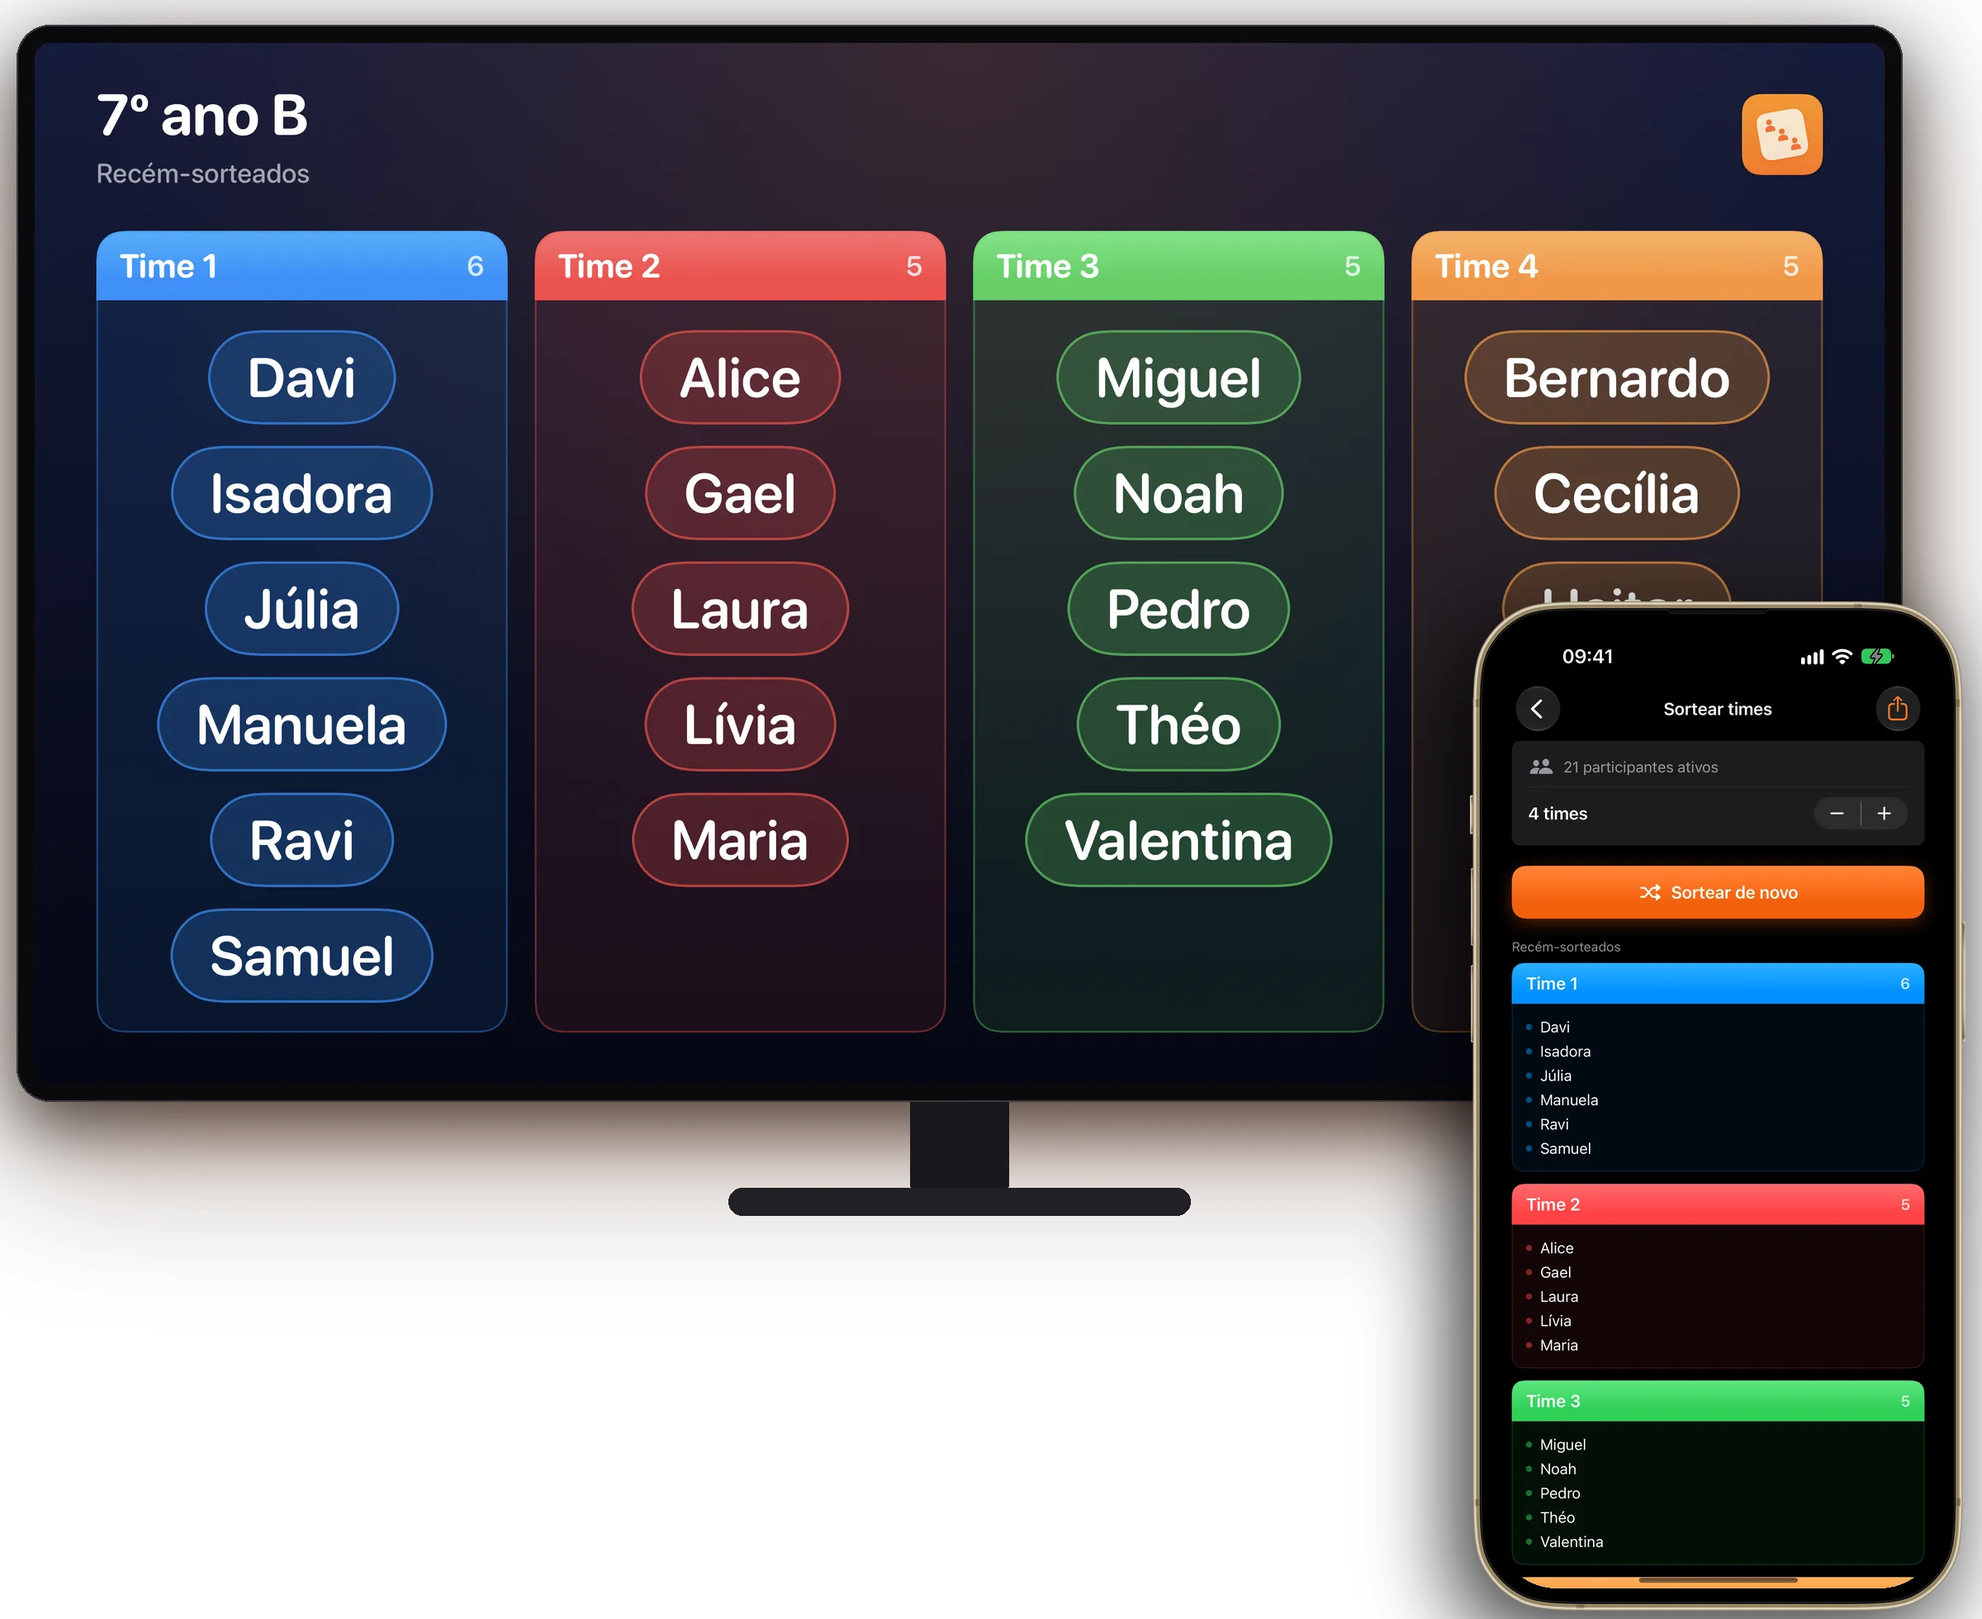
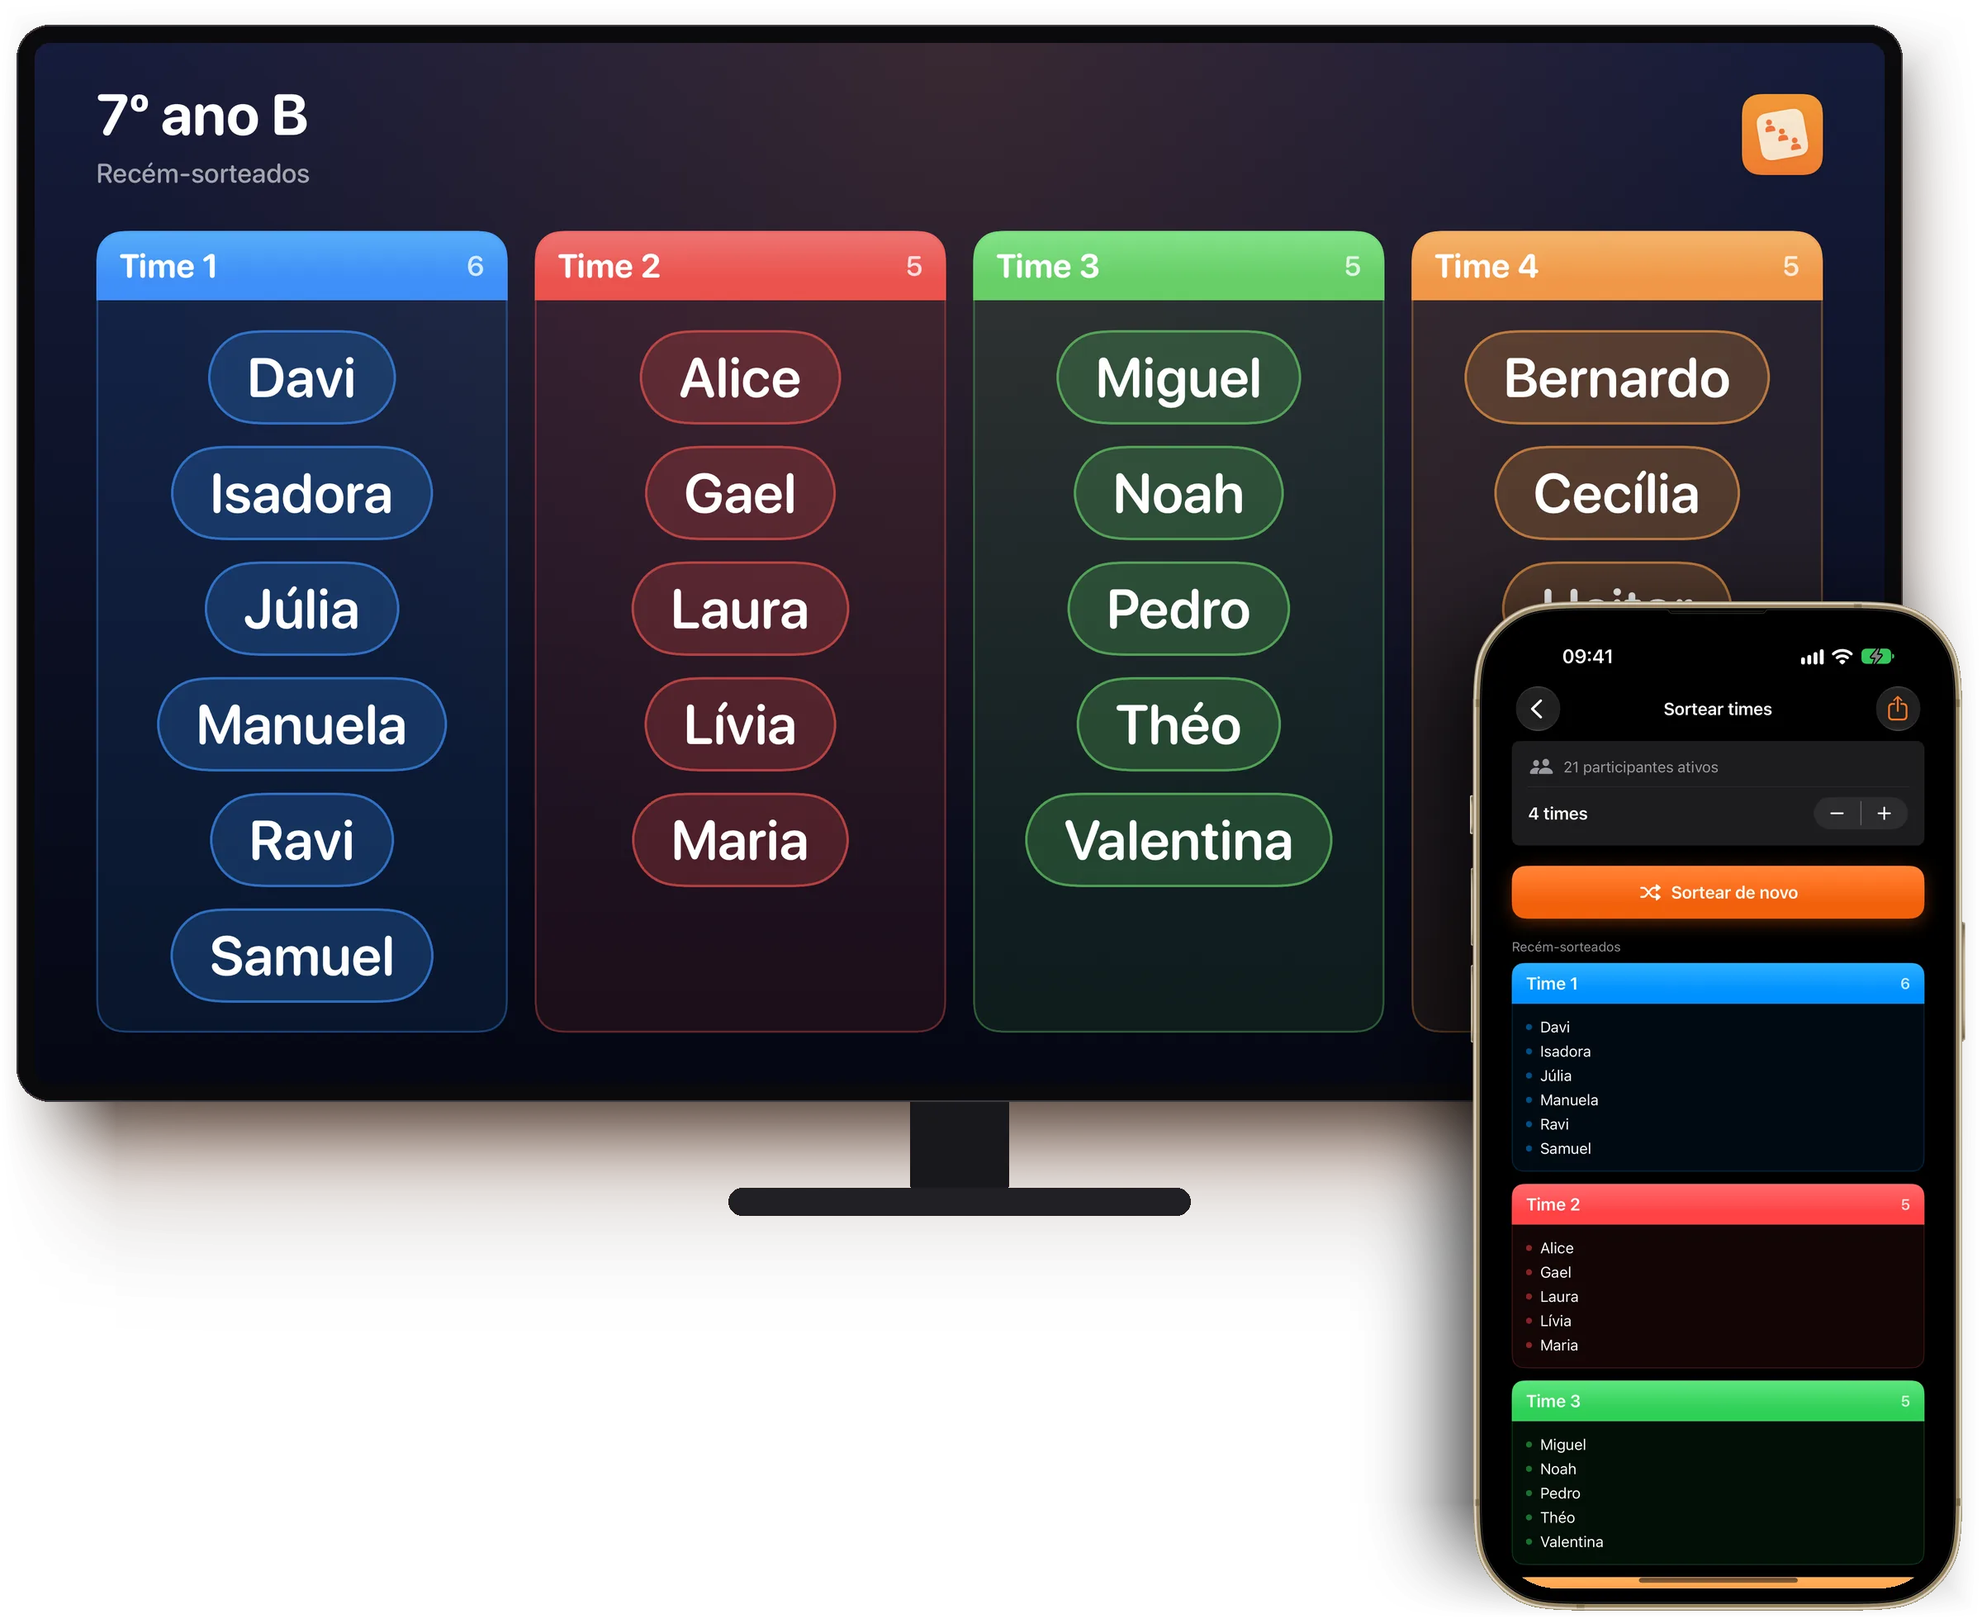
Startseite: Team Zufall als Haupt-App
- Team Zufall bzw. Team Draw als erste, große Kachel mit Hinweis auf den
  Live-Modus; Ruhe rückt in die Reihe der kleinen Kacheln
- Team-Zufall-Ratgeber zuerst, Meta-Beschreibungen nennen die App zuerst
- Hero-Bilder: abgeschnittener Schein am Bildrand läuft jetzt aus

Changed region(s): [[0.0, 0.0, 1.0, 1.0]]

diff --git a/index.html b/index.html
@@ -13,7 +13,7 @@
   <meta name="theme-color" content="#FBF6EF" media="(prefers-color-scheme: light)" />
   <meta name="theme-color" content="#17120E" media="(prefers-color-scheme: dark)" />
   <title>crabucate — iOS-Apps für Schule &amp; Unterricht</title>
-  <meta name="description" content="iOS-Apps aus dem Schulalltag: Der Lehrer Arbeitszeit Tracker erfasst die Arbeitszeit, Platzwahl erstellt automatisch Sitzpläne, Team Zufall teilt Gruppen zufällig auf, Daily Bestiary bringt jeden Tag eine neue Tierkarte. Für iPhone und iPad." />
+  <meta name="description" content="iOS-Apps aus dem Schulalltag: Team Zufall teilt Gruppen zufällig auf, der Lehrer Arbeitszeit Tracker erfasst die Arbeitszeit, Platzwahl erstellt automatisch Sitzpläne, Daily Bestiary bringt jeden Tag eine neue Tierkarte. Für iPhone und iPad." />
   <link rel="canonical" href="https://crabucate.de/" />
   <link rel="alternate" hreflang="de" href="https://crabucate.de/" />
   <link rel="alternate" hreflang="en" href="https://crabucate.de/en/" />
@@ -24,7 +24,7 @@
   <meta property="og:type" content="website" />
   <meta property="og:url" content="https://crabucate.de/" />
   <meta property="og:title" content="crabucate — iOS-Apps für Schule &amp; Unterricht" />
-  <meta property="og:description" content="iOS-Apps aus dem Schulalltag: Zeiterfassung mit dem Lehrer Arbeitszeit Tracker, Sitzpläne mit Platzwahl, Gruppen mit Team Zufall, Tierkarten mit Daily Bestiary. Für iPhone und iPad." />
+  <meta property="og:description" content="iOS-Apps aus dem Schulalltag: Gruppen mit Team Zufall, Zeiterfassung mit dem Lehrer Arbeitszeit Tracker, Sitzpläne mit Platzwahl, Tierkarten mit Daily Bestiary. Für iPhone und iPad." />
   <meta property="og:image" content="https://crabucate.de/og-image.png" />
   <meta property="og:image:width" content="1200" />
   <meta property="og:image:height" content="630" />
@@ -193,6 +193,8 @@
     }
 
     .app-tile:hover .tile-preview img { transform: scale(1.03); }
+    /* Die Beamer-Szene hat kaum eigenen Rand und ist höher als die übrigen Szenen. */
+    .app-tile--tz .tile-preview img { width: 88%; margin: 2.25rem 0; }
 
     /* ── RATGEBER ── */
     .ratgeber {
@@ -292,18 +294,19 @@
 
     <div class="apps-grid">
 
-      <a href="ruhe.html" class="app-tile app-tile--ru app-tile--wide">
+      <a href="team-zufall.html" class="app-tile app-tile--tz app-tile--wide">
         <div class="tile-content">
           <picture>
-            <source srcset="images/ruhe/icons/dark/icon.png" media="(prefers-color-scheme: dark)" />
-            <img src="images/ruhe/icons/light/icon.png" alt="Ruhe App Icon" class="tile-icon" />
+            <source srcset="images/team-zufall/icons/dark/icon.png" media="(prefers-color-scheme: dark)" />
+            <img src="images/team-zufall/icons/light/icon.png" alt="Team Zufall App Icon" class="tile-icon" />
           </picture>
-          <h2 class="tile-name">Ruhe</h2>
-          <p class="tile-tagline">Die Lärmampel, die ruhige Phasen belohnt.</p>
+          <h2 class="tile-name">Team Zufall</h2>
+          <p class="tile-tagline">Faire Teams. In einer Sekunde.</p>
+          <span class="tile-free">Neu: live auf dem Beamer</span>
           <span class="tile-cta">Im App Store</span>
         </div>
         <div class="tile-preview">
-          <img src="images/ruhe/hero/de.webp" width="2560" height="1800" alt="Ruhe auf iPad und iPhone: Pip in Grün, Gelb und Rot" />
+          <img src="images/team-zufall/hero/de.webp" width="2400" height="1960" alt="Team Zufall live auf dem Fernseher: ausgeloste Teams" />
         </div>
       </a>
 
@@ -326,6 +329,21 @@
         </div>
       </a>
 
+      <a href="ruhe.html" class="app-tile app-tile--ru">
+        <div class="tile-content">
+          <picture>
+            <source srcset="images/ruhe/icons/dark/icon.png" media="(prefers-color-scheme: dark)" />
+            <img src="images/ruhe/icons/light/icon.png" alt="Ruhe App Icon" class="tile-icon" />
+          </picture>
+          <h2 class="tile-name">Ruhe</h2>
+          <p class="tile-tagline">Die Lärmampel, die ruhige Phasen belohnt.</p>
+          <span class="tile-cta">Im App Store</span>
+        </div>
+        <div class="tile-preview">
+          <img src="images/ruhe/hero/de.webp" width="2560" height="1800" alt="Ruhe auf iPad und iPhone: Pip in Grün, Gelb und Rot" loading="lazy" />
+        </div>
+      </a>
+
       <a href="bestiary/de/" class="app-tile app-tile--db">
         <div class="tile-content">
           <img src="images/bestiary/icon.png" alt="Daily Bestiary App Icon" class="tile-icon" />
@@ -335,21 +353,6 @@
         </div>
         <div class="tile-preview">
           <img src="images/bestiary/hero/de.webp" width="2560" height="1800" alt="Daily Bestiary auf drei iPhones: Karte des Tages, Vorder- und Rückseite" loading="lazy" />
-        </div>
-      </a>
-
-      <a href="team-zufall.html" class="app-tile app-tile--tz">
-        <div class="tile-content">
-          <picture>
-            <source srcset="images/team-zufall/icons/dark/icon.png" media="(prefers-color-scheme: dark)" />
-            <img src="images/team-zufall/icons/light/icon.png" alt="Team Zufall App Icon" class="tile-icon" />
-          </picture>
-          <h2 class="tile-name">Team Zufall</h2>
-          <p class="tile-tagline">Faire Teams. In einer Sekunde.</p>
-          <span class="tile-cta">Im App Store</span>
-        </div>
-        <div class="tile-preview">
-          <img src="images/team-zufall/hero/de.webp" width="2400" height="1960" alt="Team Zufall live auf dem Fernseher: ausgeloste Teams" loading="lazy" />
         </div>
       </a>
 
@@ -373,6 +376,10 @@
     <section class="ratgeber" aria-label="Ratgeber">
       <p class="ratgeber-title">Ratgeber für Lehrkräfte</p>
       <div class="ratgeber-links">
+        <a href="guides/gruppen-einteilen.html">Gruppen einteilen</a>
+        <a href="guides/zufallsgruppen-generator.html">Zufallsgruppen-Generator</a>
+        <a href="guides/teams-auslosen.html">Teams auslosen</a>
+        <a href="guides/gruppeneinteilung-methoden.html">Gruppeneinteilung: Methoden</a>
         <a href="guides/arbeitszeiterfassung-lehrer.html">Arbeitszeiterfassung für Lehrer</a>
         <a href="guides/jahresarbeitszeit-lehrer-berechnen.html">Jahresarbeitszeit berechnen</a>
         <a href="guides/ueberstunden-lehrer.html">Überstunden als Lehrkraft</a>
@@ -382,10 +389,6 @@
         <a href="guides/sitzordnung-klassenzimmer.html">Sitzordnung im Klassenzimmer</a>
         <a href="guides/sitzplan-grundschule.html">Sitzplan Grundschule</a>
         <a href="guides/sitzplan-app-ipad.html">Sitzplan-App für iPad</a>
-        <a href="guides/gruppen-einteilen.html">Gruppen einteilen</a>
-        <a href="guides/zufallsgruppen-generator.html">Zufallsgruppen-Generator</a>
-        <a href="guides/teams-auslosen.html">Teams auslosen</a>
-        <a href="guides/gruppeneinteilung-methoden.html">Gruppeneinteilung: Methoden</a>
       </div>
     </section>
   </main>

diff --git a/en/index.html b/en/index.html
@@ -8,7 +8,7 @@
   <meta name="theme-color" content="#FBF6EF" media="(prefers-color-scheme: light)" />
   <meta name="theme-color" content="#17120E" media="(prefers-color-scheme: dark)" />
   <title>crabucate — iOS Apps for iPhone and iPad</title>
-  <meta name="description" content="iOS apps by crabucate: Daily Bestiary, Team Draw and Platzwahl — simple, local, no distractions." />
+  <meta name="description" content="iOS apps by crabucate: Team Draw, Daily Bestiary and Platzwahl — simple, local, no distractions." />
   <link rel="canonical" href="https://crabucate.de/en/" />
   <link rel="alternate" hreflang="en" href="https://crabucate.de/en/" />
   <link rel="alternate" hreflang="x-default" href="https://crabucate.de/" />
@@ -19,7 +19,7 @@
   <meta property="og:type" content="website" />
   <meta property="og:url" content="https://crabucate.de/en/" />
   <meta property="og:title" content="crabucate — iOS Apps for iPhone and iPad" />
-  <meta property="og:description" content="Small apps for real problems. Daily Bestiary, Team Draw and Platzwahl, for iPhone and iPad." />
+  <meta property="og:description" content="Small apps for real problems. Team Draw, Daily Bestiary and Platzwahl, for iPhone and iPad." />
   <meta property="og:image" content="https://crabucate.de/og-image.png" />
   <meta property="og:image:width" content="1200" />
   <meta property="og:image:height" content="630" />
@@ -188,6 +188,8 @@
     }
 
     .app-tile:hover .tile-preview img { transform: scale(1.03); }
+    /* Die Beamer-Szene hat kaum eigenen Rand und ist höher als die übrigen Szenen. */
+    .app-tile--tz .tile-preview img { width: 88%; margin: 2.25rem 0; }
 
     /* ── GUIDES ── */
     .ratgeber {
@@ -287,7 +289,23 @@
 
     <div class="apps-grid">
 
-      <a href="ruhe.html" class="app-tile app-tile--ru app-tile--wide">
+      <a href="team-zufall.html" class="app-tile app-tile--tz app-tile--wide">
+        <div class="tile-content">
+          <picture>
+            <source srcset="../images/team-zufall/icons/dark/icon.png" media="(prefers-color-scheme: dark)" />
+            <img src="../images/team-zufall/icons/light/icon.png" alt="Team Draw App Icon" class="tile-icon" />
+          </picture>
+          <h2 class="tile-name">Team Draw</h2>
+          <p class="tile-tagline">Fair teams. In one second.</p>
+          <span class="tile-free">New: live on the big screen</span>
+          <span class="tile-cta">On the App Store</span>
+        </div>
+        <div class="tile-preview">
+          <img src="../images/team-zufall/hero/en.webp" width="2400" height="1960" alt="Team Draw live on a TV: drawn teams" />
+        </div>
+      </a>
+
+      <a href="ruhe.html" class="app-tile app-tile--ru">
         <div class="tile-content">
           <picture>
             <source srcset="../images/ruhe/icons/dark/icon.png" media="(prefers-color-scheme: dark)" />
@@ -298,7 +316,7 @@
           <span class="tile-cta">On the App Store</span>
         </div>
         <div class="tile-preview">
-          <img src="../images/ruhe/hero/en.webp" width="2560" height="1800" alt="Ruhe on iPad and iPhone: Pip in green, yellow and red" />
+          <img src="../images/ruhe/hero/en.webp" width="2560" height="1800" alt="Ruhe on iPad and iPhone: Pip in green, yellow and red" loading="lazy" />
         </div>
       </a>
 
@@ -311,21 +329,6 @@
         </div>
         <div class="tile-preview">
           <img src="../images/bestiary/hero/en.webp" width="2560" height="1800" alt="Daily Bestiary on three iPhones: today’s card, front and back" loading="lazy" />
-        </div>
-      </a>
-
-      <a href="team-zufall.html" class="app-tile app-tile--tz">
-        <div class="tile-content">
-          <picture>
-            <source srcset="../images/team-zufall/icons/dark/icon.png" media="(prefers-color-scheme: dark)" />
-            <img src="../images/team-zufall/icons/light/icon.png" alt="Team Draw App Icon" class="tile-icon" />
-          </picture>
-          <h2 class="tile-name">Team Draw</h2>
-          <p class="tile-tagline">Fair teams. In one second.</p>
-          <span class="tile-cta">On the App Store</span>
-        </div>
-        <div class="tile-preview">
-          <img src="../images/team-zufall/hero/en.webp" width="2400" height="1960" alt="Team Draw live on a TV: drawn teams" loading="lazy" />
         </div>
       </a>
 
@@ -349,15 +352,15 @@
     <section class="ratgeber" aria-label="Guides">
       <p class="ratgeber-title">Guides for teachers</p>
       <div class="ratgeber-links">
+        <a href="guides/divide-students-into-groups.html">Divide students into groups</a>
+        <a href="guides/random-group-generator.html">Random group generator</a>
+        <a href="guides/random-team-generator.html">Random team generator</a>
+        <a href="guides/ways-to-group-students.html">5 ways to group students</a>
         <a href="guides/classroom-management.html">Classroom management</a>
         <a href="guides/create-seating-chart.html">Create a seating chart</a>
         <a href="guides/seating-chart-generator.html">Seating chart generator</a>
         <a href="guides/classroom-seating-arrangements.html">Classroom seating arrangements</a>
         <a href="guides/seating-chart-app.html">Seating chart app for iPad</a>
-        <a href="guides/divide-students-into-groups.html">Divide students into groups</a>
-        <a href="guides/random-group-generator.html">Random group generator</a>
-        <a href="guides/random-team-generator.html">Random team generator</a>
-        <a href="guides/ways-to-group-students.html">5 ways to group students</a>
       </div>
     </section>
   </main>

diff --git a/notes/heroes/build.py b/notes/heroes/build.py
@@ -148,13 +148,30 @@ def team_zufall() -> None:
     # Keine eigene Szene: Die Screenshot-Pipeline der App rendert für den
     # Beamer-Screenshot schon Fernseher plus iPhone auf transparentem Grund
     # (pipeline/tv.py). Die iPad-Fassung (2400×1960) passt in die Bühne.
+    # Ihr orangefarbener Schein und der Schatten enden dort hart an der Bildkante;
+    # auf dem Verlauf der Kacheln sah man das als Rechteck. Darum laufen die
+    # halbtransparenten Pixel am Rand aus, Fernseher und iPhone (deckend) nicht.
+    from PIL import Image, ImageChops
+
+    band = 140  # Pixel, auf denen der Rand ausläuft
     for code, folder in TZ_LANGS.items():
         src = TZ_TV / folder / "tv.png"
         need(src)
+        img = Image.open(src).convert("RGBA")
+        w, h = img.size
+        edge = lambda n: [min(255, 255 * min(i, n - 1 - i) // band) for i in range(n)]
+        across = Image.new("L", (w, 1)); across.putdata(edge(w))
+        down = Image.new("L", (1, h)); down.putdata(edge(h))
+        ramp = ImageChops.darker(across.resize((w, h)), down.resize((w, h)))
+        alpha = img.getchannel("A")
+        opaque = alpha.point(lambda v: 255 if v >= 230 else 0)
+        img.putalpha(Image.composite(alpha, ImageChops.multiply(alpha, ramp), opaque))
         out = ROOT / f"images/team-zufall/hero/{code}.webp"
         out.parent.mkdir(parents=True, exist_ok=True)
-        subprocess.run(["cwebp", "-quiet", "-q", "82", "-alpha_q", "90", "-m", "6",
-                        str(src), "-o", str(out)], check=True)
+        with tempfile.NamedTemporaryFile(suffix=".png") as tmp:
+            img.save(tmp.name)
+            subprocess.run(["cwebp", "-quiet", "-q", "82", "-alpha_q", "90", "-m", "6",
+                            tmp.name, "-o", str(out)], check=True)
 
 
 def tracker() -> None:
